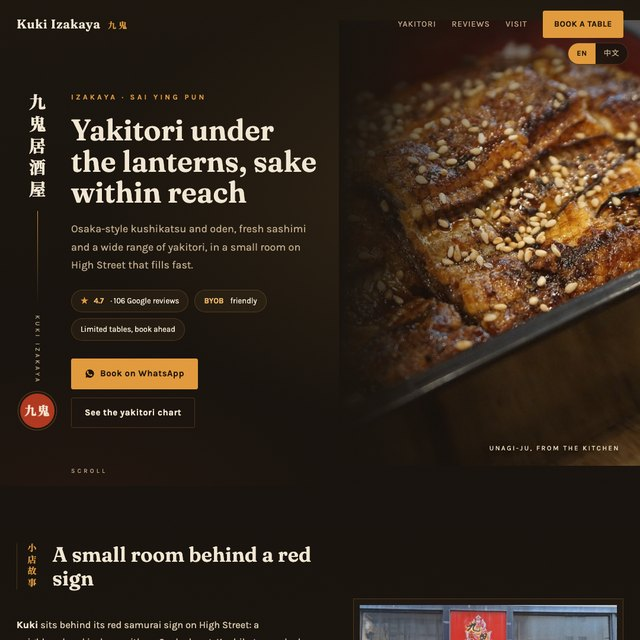
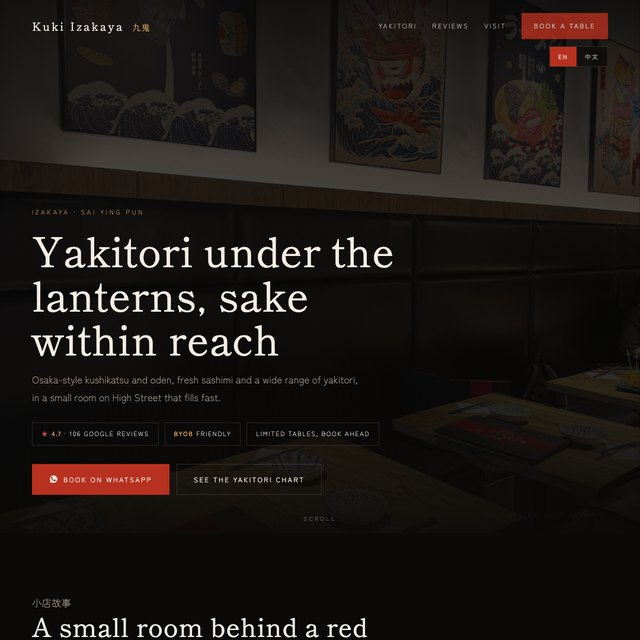
web-design: Kuki tile rebuilt on the awwwards direction

diff --git a/web-design/index.html b/web-design/index.html
@@ -146,7 +146,7 @@ footer a:hover{color:var(--fg)}
 <section class="cityblock" id="damascus"><h2 class="cityhead">DAMASCUS<span>30 websites</span></h2><div class="grid"><a class="card" href="https://wissamsader.github.io/damascus/bakdash/" target="_blank" rel="noopener"><span class="inner"><span class="chrome" aria-hidden="true"><i></i><i></i><i></i></span><img loading="lazy" src="shots/damascus-bakdash.jpg?v=2d0e0249" alt="بوظة بكداش website by StudioMorphik"><span class="meta"><b>بوظة بكداش</b><span style="display:flex;align-items:center;gap:9px"><i>Damascus</i><span class="arr">↗</span></span></span></span></a><a class="card" href="https://wissamsader.github.io/damascus/manhal/" target="_blank" rel="noopener"><span class="inner"><span class="chrome" aria-hidden="true"><i></i><i></i><i></i></span><img loading="lazy" src="shots/damascus-manhal.jpg?v=38a5e05b" alt="مخبز ومكتبة المنهل website by StudioMorphik"><span class="meta"><b>مخبز ومكتبة المنهل</b><span style="display:flex;align-items:center;gap:9px"><i>Damascus</i><span class="arr">↗</span></span></span></span></a><a class="card" href="https://wissamsader.github.io/damascus/nawfara/" target="_blank" rel="noopener"><span class="inner"><span class="chrome" aria-hidden="true"><i></i><i></i><i></i></span><img loading="lazy" src="shots/damascus-nawfara.jpg?v=c793c3ab" alt="مقهى النوفرة website by StudioMorphik"><span class="meta"><b>مقهى النوفرة</b><span style="display:flex;align-items:center;gap:9px"><i>Damascus</i><span class="arr">↗</span></span></span></span></a><a class="card" href="https://wissamsader.github.io/damascus/beit-jabri/" target="_blank" rel="noopener"><span class="inner"><span class="chrome" aria-hidden="true"><i></i><i></i><i></i></span><img loading="lazy" src="shots/damascus-beit-jabri.jpg?v=006b5c8e" alt="بيت جبري website by StudioMorphik"><span class="meta"><b>بيت جبري</b><span style="display:flex;align-items:center;gap:9px"><i>Damascus</i><span class="arr">↗</span></span></span></span></a><a class="card" href="https://wissamsader.github.io/damascus/haretna/" target="_blank" rel="noopener"><span class="inner"><span class="chrome" aria-hidden="true"><i></i><i></i><i></i></span><img loading="lazy" src="shots/damascus-haretna.jpg?v=5cccf1c3" alt="حارتنا website by StudioMorphik"><span class="meta"><b>حارتنا</b><span style="display:flex;align-items:center;gap:9px"><i>Damascus</i><span class="arr">↗</span></span></span></span></a><a class="card" href="https://wissamsader.github.io/damascus/qishla/" target="_blank" rel="noopener"><span class="inner"><span class="chrome" aria-hidden="true"><i></i><i></i><i></i></span><img loading="lazy" src="shots/damascus-qishla.jpg?v=542077eb" alt="قهوة القشلة website by StudioMorphik"><span class="meta"><b>قهوة القشلة</b><span style="display:flex;align-items:center;gap:9px"><i>Damascus</i><span class="arr">↗</span></span></span></span></a><a class="card" href="https://wissamsader.github.io/damascus/monalisa/" target="_blank" rel="noopener"><span class="inner"><span class="chrome" aria-hidden="true"><i></i><i></i><i></i></span><img loading="lazy" src="shots/damascus-monalisa.jpg?v=ecf8d70d" alt="موناليزا website by StudioMorphik"><span class="meta"><b>موناليزا</b><span style="display:flex;align-items:center;gap:9px"><i>Damascus</i><span class="arr">↗</span></span></span></span></a><a class="card" href="https://wissamsader.github.io/damascus/selena/" target="_blank" rel="noopener"><span class="inner"><span class="chrome" aria-hidden="true"><i></i><i></i><i></i></span><img loading="lazy" src="shots/damascus-selena.jpg?v=a09521f4" alt="سيلينا website by StudioMorphik"><span class="meta"><b>سيلينا</b><span style="display:flex;align-items:center;gap:9px"><i>Damascus</i><span class="arr">↗</span></span></span></span></a><a class="card" href="https://wissamsader.github.io/damascus/elburj/" target="_blank" rel="noopener"><span class="inner"><span class="chrome" aria-hidden="true"><i></i><i></i><i></i></span><img loading="lazy" src="shots/damascus-elburj.jpg?v=a6dfdcc9" alt="شاورما البرج website by StudioMorphik"><span class="meta"><b>شاورما البرج</b><span style="display:flex;align-items:center;gap:9px"><i>Damascus</i><span class="arr">↗</span></span></span></span></a><a class="card" href="https://wissamsader.github.io/damascus/wissam-conf/" target="_blank" rel="noopener"><span class="inner"><span class="chrome" aria-hidden="true"><i></i><i></i><i></i></span><img loading="lazy" src="shots/damascus-wissam-conf.jpg?v=a529596c" alt="حلويات الوسام website by StudioMorphik"><span class="meta"><b>حلويات الوسام</b><span style="display:flex;align-items:center;gap:9px"><i>Damascus</i><span class="arr">↗</span></span></span></span></a><a class="card" href="https://wissamsader.github.io/damascus/albeik/" target="_blank" rel="noopener"><span class="inner"><span class="chrome" aria-hidden="true"><i></i><i></i><i></i></span><img loading="lazy" src="shots/damascus-albeik.jpg?v=9bad8d22" alt="حلويات البيك website by StudioMorphik"><span class="meta"><b>حلويات البيك</b><span style="display:flex;align-items:center;gap:9px"><i>Damascus</i><span class="arr">↗</span></span></span></span></a><a class="card" href="https://wissamsader.github.io/damascus/shamiah/" target="_blank" rel="noopener"><span class="inner"><span class="chrome" aria-hidden="true"><i></i><i></i><i></i></span><img loading="lazy" src="shots/damascus-shamiah.jpg?v=70ab2098" alt="حلويات الشامية website by StudioMorphik"><span class="meta"><b>حلويات الشامية</b><span style="display:flex;align-items:center;gap:9px"><i>Damascus</i><span class="arr">↗</span></span></span></span></a><a class="card" href="https://wissamsader.github.io/damascus/omaya-ice/" target="_blank" rel="noopener"><span class="inner"><span class="chrome" aria-hidden="true"><i></i><i></i><i></i></span><img loading="lazy" src="shots/damascus-omaya-ice.jpg?v=d784f657" alt="بوظة أمية website by StudioMorphik"><span class="meta"><b>بوظة أمية</b><span style="display:flex;align-items:center;gap:9px"><i>Damascus</i><span class="arr">↗</span></span></span></span></a><a class="card" href="https://wissamsader.github.io/damascus/almafraq/" target="_blank" rel="noopener"><span class="inner"><span class="chrome" aria-hidden="true"><i></i><i></i><i></i></span><img loading="lazy" src="shots/damascus-almafraq.jpg?v=9579b0df" alt="قهوة عالمفرق website by StudioMorphik"><span class="meta"><b>قهوة عالمفرق</b><span style="display:flex;align-items:center;gap:9px"><i>Damascus</i><span class="arr">↗</span></span></span></span></a><a class="card" href="https://wissamsader.github.io/damascus/old-damascus/" target="_blank" rel="noopener"><span class="inner"><span class="chrome" aria-hidden="true"><i></i><i></i><i></i></span><img loading="lazy" src="shots/damascus-old-damascus.jpg?v=69a4221e" alt="سناك دمشق القديمة website by StudioMorphik"><span class="meta"><b>سناك دمشق القديمة</b><span style="display:flex;align-items:center;gap:9px"><i>Damascus</i><span class="arr">↗</span></span></span></span></a><a class="card" href="https://wissamsader.github.io/damascus/baron-hakob/" target="_blank" rel="noopener"><span class="inner"><span class="chrome" aria-hidden="true"><i></i><i></i><i></i></span><img loading="lazy" src="shots/damascus-baron-hakob.jpg?v=c7a28e37" alt="بارون هاكوب website by StudioMorphik"><span class="meta"><b>بارون هاكوب</b><span style="display:flex;align-items:center;gap:9px"><i>Damascus</i><span class="arr">↗</span></span></span></span></a><a class="card" href="https://wissamsader.github.io/damascus/nubar/" target="_blank" rel="noopener"><span class="inner"><span class="chrome" aria-hidden="true"><i></i><i></i><i></i></span><img loading="lazy" src="shots/damascus-nubar.jpg?v=a4ee046f" alt="نوبار أواديس جولفايان website by StudioMorphik"><span class="meta"><b>نوبار أواديس جولفايان</b><span style="display:flex;align-items:center;gap:9px"><i>Damascus</i><span class="arr">↗</span></span></span></span></a><a class="card" href="https://wissamsader.github.io/damascus/neutron/" target="_blank" rel="noopener"><span class="inner"><span class="chrome" aria-hidden="true"><i></i><i></i><i></i></span><img loading="lazy" src="shots/damascus-neutron.jpg?v=b3ea9ac3" alt="نيوترون website by StudioMorphik"><span class="meta"><b>نيوترون</b><span style="display:flex;align-items:center;gap:9px"><i>Damascus</i><span class="arr">↗</span></span></span></span></a><a class="card" href="https://wissamsader.github.io/damascus/oriental/" target="_blank" rel="noopener"><span class="inner"><span class="chrome" aria-hidden="true"><i></i><i></i><i></i></span><img loading="lazy" src="shots/damascus-oriental.jpg?v=66142b13" alt="مطعم الأورينتال website by StudioMorphik"><span class="meta"><b>مطعم الأورينتال</b><span style="display:flex;align-items:center;gap:9px"><i>Damascus</i><span class="arr">↗</span></span></span></span></a><a class="card" href="https://wissamsader.github.io/damascus/amraya/" target="_blank" rel="noopener"><span class="inner"><span class="chrome" aria-hidden="true"><i></i><i></i><i></i></span><img loading="lazy" src="shots/damascus-amraya.jpg?v=cf7142a5" alt="كافيه أمرايا website by StudioMorphik"><span class="meta"><b>كافيه أمرايا</b><span style="display:flex;align-items:center;gap:9px"><i>Damascus</i><span class="arr">↗</span></span></span></span></a><a class="card" href="https://wissamsader.github.io/damascus/warraq-alzaman/" target="_blank" rel="noopener"><span class="inner"><span class="chrome" aria-hidden="true"><i></i><i></i><i></i></span><img loading="lazy" src="shots/damascus-warraq-alzaman.jpg?v=b649af87" alt="وراق الزمن website by StudioMorphik"><span class="meta"><b>وراق الزمن</b><span style="display:flex;align-items:center;gap:9px"><i>Damascus</i><span class="arr">↗</span></span></span></span></a><a class="card" href="https://wissamsader.github.io/damascus/soufaniyeh/" target="_blank" rel="noopener"><span class="inner"><span class="chrome" aria-hidden="true"><i></i><i></i><i></i></span><img loading="lazy" src="shots/damascus-soufaniyeh.jpg?v=d4ebc67d" alt="معجنات الصوفانية website by StudioMorphik"><span class="meta"><b>معجنات الصوفانية</b><span style="display:flex;align-items:center;gap:9px"><i>Damascus</i><span class="arr">↗</span></span></span></span></a><a class="card" href="https://wissamsader.github.io/damascus/salon-alshami/" target="_blank" rel="noopener"><span class="inner"><span class="chrome" aria-hidden="true"><i></i><i></i><i></i></span><img loading="lazy" src="shots/damascus-salon-alshami.jpg?v=bcaa1648" alt="صالون الشامي website by StudioMorphik"><span class="meta"><b>صالون الشامي</b><span style="display:flex;align-items:center;gap:9px"><i>Damascus</i><span class="arr">↗</span></span></span></span></a><a class="card" href="https://wissamsader.github.io/damascus/salaza-dany/" target="_blank" rel="noopener"><span class="inner"><span class="chrome" aria-hidden="true"><i></i><i></i><i></i></span><img loading="lazy" src="shots/damascus-salaza-dany.jpg?v=f39874ec" alt="صالون سالازا - داني عنتر website by StudioMorphik"><span class="meta"><b>صالون سالازا - داني عنتر</b><span style="display:flex;align-items:center;gap:9px"><i>Damascus</i><span class="arr">↗</span></span></span></span></a><a class="card" href="https://wissamsader.github.io/damascus/qissa-dimashqiya/" target="_blank" rel="noopener"><span class="inner"><span class="chrome" aria-hidden="true"><i></i><i></i><i></i></span><img loading="lazy" src="shots/damascus-qissa-dimashqiya.jpg?v=2ffeb2d4" alt="صالون القصة الدمشقية website by StudioMorphik"><span class="meta"><b>صالون القصة الدمشقية</b><span style="display:flex;align-items:center;gap:9px"><i>Damascus</i><span class="arr">↗</span></span></span></span></a><a class="card" href="https://wissamsader.github.io/damascus/hasan-nizam/" target="_blank" rel="noopener"><span class="inner"><span class="chrome" aria-hidden="true"><i></i><i></i><i></i></span><img loading="lazy" src="shots/damascus-hasan-nizam.jpg?v=2530689c" alt="حسن نظام للحلاقة website by StudioMorphik"><span class="meta"><b>حسن نظام للحلاقة</b><span style="display:flex;align-items:center;gap:9px"><i>Damascus</i><span class="arr">↗</span></span></span></span></a><a class="card" href="https://wissamsader.github.io/damascus/famous-saloun/" target="_blank" rel="noopener"><span class="inner"><span class="chrome" aria-hidden="true"><i></i><i></i><i></i></span><img loading="lazy" src="shots/damascus-famous-saloun.jpg?v=bb274908" alt="فيموس صالون website by StudioMorphik"><span class="meta"><b>فيموس صالون</b><span style="display:flex;align-items:center;gap:9px"><i>Damascus</i><span class="arr">↗</span></span></span></span></a><a class="card" href="https://wissamsader.github.io/damascus/joseph-saad/" target="_blank" rel="noopener"><span class="inner"><span class="chrome" aria-hidden="true"><i></i><i></i><i></i></span><img loading="lazy" src="shots/damascus-joseph-saad.jpg?v=6ebe57a7" alt="صالون جوزيف سعد website by StudioMorphik"><span class="meta"><b>صالون جوزيف سعد</b><span style="display:flex;align-items:center;gap:9px"><i>Damascus</i><span class="arr">↗</span></span></span></span></a><a class="card" href="https://wissamsader.github.io/damascus/george-mardini/" target="_blank" rel="noopener"><span class="inner"><span class="chrome" aria-hidden="true"><i></i><i></i><i></i></span><img loading="lazy" src="shots/damascus-george-mardini.jpg?v=d0512581" alt="صالون جورج مارديني website by StudioMorphik"><span class="meta"><b>صالون جورج مارديني</b><span style="display:flex;align-items:center;gap:9px"><i>Damascus</i><span class="arr">↗</span></span></span></span></a><a class="card" href="https://wissamsader.github.io/damascus/othman/" target="_blank" rel="noopener"><span class="inner"><span class="chrome" aria-hidden="true"><i></i><i></i><i></i></span><img loading="lazy" src="shots/damascus-othman.jpg?v=ce987ca6" alt="عثمان باربرز website by StudioMorphik"><span class="meta"><b>عثمان باربرز</b><span style="display:flex;align-items:center;gap:9px"><i>Damascus</i><span class="arr">↗</span></span></span></span></a></div></section>
 <section class="cityblock" id="berlin"><h2 class="cityhead">BERLIN<span>30 websites</span></h2><div class="grid"><a class="card" href="https://wissamsader.github.io/berlin/azzam-restaurant/" target="_blank" rel="noopener"><span class="inner"><span class="chrome" aria-hidden="true"><i></i><i></i><i></i></span><img loading="lazy" src="shots/berlin-azzam-restaurant.jpg?v=28a3b15f" alt="Azzam Restaurant website by StudioMorphik"><span class="meta"><b>Azzam Restaurant</b><span style="display:flex;align-items:center;gap:9px"><i>Berlin</i><span class="arr">↗</span></span></span></span></a><a class="card" href="https://wissamsader.github.io/berlin/sanaa-al-yemen/" target="_blank" rel="noopener"><span class="inner"><span class="chrome" aria-hidden="true"><i></i><i></i><i></i></span><img loading="lazy" src="shots/berlin-sanaa-al-yemen.jpg?v=75495e37" alt="Sana&#x27;a Al Yemen website by StudioMorphik"><span class="meta"><b>Sana&#x27;a Al Yemen</b><span style="display:flex;align-items:center;gap:9px"><i>Berlin</i><span class="arr">↗</span></span></span></span></a><a class="card" href="https://wissamsader.github.io/berlin/al-hanan-falafel/" target="_blank" rel="noopener"><span class="inner"><span class="chrome" aria-hidden="true"><i></i><i></i><i></i></span><img loading="lazy" src="shots/berlin-al-hanan-falafel.jpg?v=07706420" alt="Al Hanan website by StudioMorphik"><span class="meta"><b>Al Hanan</b><span style="display:flex;align-items:center;gap:9px"><i>Berlin</i><span class="arr">↗</span></span></span></span></a><a class="card" href="https://wissamsader.github.io/berlin/shawarma-albaik/" target="_blank" rel="noopener"><span class="inner"><span class="chrome" aria-hidden="true"><i></i><i></i><i></i></span><img loading="lazy" src="shots/berlin-shawarma-albaik.jpg?v=b66bc686" alt="Shawarma Albaik website by StudioMorphik"><span class="meta"><b>Shawarma Albaik</b><span style="display:flex;align-items:center;gap:9px"><i>Berlin</i><span class="arr">↗</span></span></span></span></a><a class="card" href="https://wissamsader.github.io/berlin/falfool/" target="_blank" rel="noopener"><span class="inner"><span class="chrome" aria-hidden="true"><i></i><i></i><i></i></span><img loading="lazy" src="shots/berlin-falfool.jpg?v=4eb229bc" alt="Falfool website by StudioMorphik"><span class="meta"><b>Falfool</b><span style="display:flex;align-items:center;gap:9px"><i>Berlin</i><span class="arr">↗</span></span></span></span></a><a class="card" href="https://wissamsader.github.io/berlin/falafel-jakoub/" target="_blank" rel="noopener"><span class="inner"><span class="chrome" aria-hidden="true"><i></i><i></i><i></i></span><img loading="lazy" src="shots/berlin-falafel-jakoub.jpg?v=27330b30" alt="Falafel Jakoub website by StudioMorphik"><span class="meta"><b>Falafel Jakoub</b><span style="display:flex;align-items:center;gap:9px"><i>Berlin</i><span class="arr">↗</span></span></span></span></a><a class="card" href="https://wissamsader.github.io/berlin/al-karam-grill/" target="_blank" rel="noopener"><span class="inner"><span class="chrome" aria-hidden="true"><i></i><i></i><i></i></span><img loading="lazy" src="shots/berlin-al-karam-grill.jpg?v=538d3556" alt="Al-Karam Grill website by StudioMorphik"><span class="meta"><b>Al-Karam Grill</b><span style="display:flex;align-items:center;gap:9px"><i>Berlin</i><span class="arr">↗</span></span></span></span></a><a class="card" href="https://wissamsader.github.io/berlin/el-daia/" target="_blank" rel="noopener"><span class="inner"><span class="chrome" aria-hidden="true"><i></i><i></i><i></i></span><img loading="lazy" src="shots/berlin-el-daia.jpg?v=80fd0776" alt="El Daia website by StudioMorphik"><span class="meta"><b>El Daia</b><span style="display:flex;align-items:center;gap:9px"><i>Berlin</i><span class="arr">↗</span></span></span></span></a><a class="card" href="https://wissamsader.github.io/berlin/abu-haija-fleischerei/" target="_blank" rel="noopener"><span class="inner"><span class="chrome" aria-hidden="true"><i></i><i></i><i></i></span><img loading="lazy" src="shots/berlin-abu-haija-fleischerei.jpg?v=7fab6d69" alt="Fleischerei Yousef Abu Haija website by StudioMorphik"><span class="meta"><b>Fleischerei Yousef Abu Haija</b><span style="display:flex;align-items:center;gap:9px"><i>Berlin</i><span class="arr">↗</span></span></span></span></a><a class="card" href="https://wissamsader.github.io/berlin/ali-lobany-fleischerei/" target="_blank" rel="noopener"><span class="inner"><span class="chrome" aria-hidden="true"><i></i><i></i><i></i></span><img loading="lazy" src="shots/berlin-ali-lobany-fleischerei.jpg?v=458a65a5" alt="Fleischerei Ali Lobany website by StudioMorphik"><span class="meta"><b>Fleischerei Ali Lobany</b><span style="display:flex;align-items:center;gap:9px"><i>Berlin</i><span class="arr">↗</span></span></span></span></a><a class="card" href="https://wissamsader.github.io/berlin/al-amana-fleischerei/" target="_blank" rel="noopener"><span class="inner"><span class="chrome" aria-hidden="true"><i></i><i></i><i></i></span><img loading="lazy" src="shots/berlin-al-amana-fleischerei.jpg?v=26abd144" alt="Al Amana Fleischerei website by StudioMorphik"><span class="meta"><b>Al Amana Fleischerei</b><span style="display:flex;align-items:center;gap:9px"><i>Berlin</i><span class="arr">↗</span></span></span></span></a><a class="card" href="https://wissamsader.github.io/berlin/malek-al-konafeh/" target="_blank" rel="noopener"><span class="inner"><span class="chrome" aria-hidden="true"><i></i><i></i><i></i></span><img loading="lazy" src="shots/berlin-malek-al-konafeh.jpg?v=120d166a" alt="Malek Al Konafeh website by StudioMorphik"><span class="meta"><b>Malek Al Konafeh</b><span style="display:flex;align-items:center;gap:9px"><i>Berlin</i><span class="arr">↗</span></span></span></span></a><a class="card" href="https://wissamsader.github.io/berlin/habibi-suessigkeiten/" target="_blank" rel="noopener"><span class="inner"><span class="chrome" aria-hidden="true"><i></i><i></i><i></i></span><img loading="lazy" src="shots/berlin-habibi-suessigkeiten.jpg?v=34f58d8d" alt="Habibi Süßigkeiten website by StudioMorphik"><span class="meta"><b>Habibi Süßigkeiten</b><span style="display:flex;align-items:center;gap:9px"><i>Berlin</i><span class="arr">↗</span></span></span></span></a><a class="card" href="https://wissamsader.github.io/berlin/jacks-barber/" target="_blank" rel="noopener"><span class="inner"><span class="chrome" aria-hidden="true"><i></i><i></i><i></i></span><img loading="lazy" src="shots/berlin-jacks-barber.jpg?v=34f3c4ea" alt="Jack&#x27;s Barber Shop website by StudioMorphik"><span class="meta"><b>Jack&#x27;s Barber Shop</b><span style="display:flex;align-items:center;gap:9px"><i>Berlin</i><span class="arr">↗</span></span></span></span></a><a class="card" href="https://wissamsader.github.io/berlin/taktak-barbershop/" target="_blank" rel="noopener"><span class="inner"><span class="chrome" aria-hidden="true"><i></i><i></i><i></i></span><img loading="lazy" src="shots/berlin-taktak-barbershop.jpg?v=1ecef50c" alt="TakTak Barbershop website by StudioMorphik"><span class="meta"><b>TakTak Barbershop</b><span style="display:flex;align-items:center;gap:9px"><i>Berlin</i><span class="arr">↗</span></span></span></span></a><a class="card" href="https://wissamsader.github.io/berlin/azzam-salon/" target="_blank" rel="noopener"><span class="inner"><span class="chrome" aria-hidden="true"><i></i><i></i><i></i></span><img loading="lazy" src="shots/berlin-azzam-salon.jpg?v=5d906cdd" alt="Azzam Salon website by StudioMorphik"><span class="meta"><b>Azzam Salon</b><span style="display:flex;align-items:center;gap:9px"><i>Berlin</i><span class="arr">↗</span></span></span></span></a><a class="card" href="https://wissamsader.github.io/berlin/salon-rotana/" target="_blank" rel="noopener"><span class="inner"><span class="chrome" aria-hidden="true"><i></i><i></i><i></i></span><img loading="lazy" src="shots/berlin-salon-rotana.jpg?v=d6bcc1bc" alt="Salon Rotana website by StudioMorphik"><span class="meta"><b>Salon Rotana</b><span style="display:flex;align-items:center;gap:9px"><i>Berlin</i><span class="arr">↗</span></span></span></span></a><a class="card" href="https://wissamsader.github.io/berlin/juwelier-al-aman/" target="_blank" rel="noopener"><span class="inner"><span class="chrome" aria-hidden="true"><i></i><i></i><i></i></span><img loading="lazy" src="shots/berlin-juwelier-al-aman.jpg?v=d8994daf" alt="Juwelier Al Aman website by StudioMorphik"><span class="meta"><b>Juwelier Al Aman</b><span style="display:flex;align-items:center;gap:9px"><i>Berlin</i><span class="arr">↗</span></span></span></span></a><a class="card" href="https://wissamsader.github.io/berlin/juwelier-al-afrah/" target="_blank" rel="noopener"><span class="inner"><span class="chrome" aria-hidden="true"><i></i><i></i><i></i></span><img loading="lazy" src="shots/berlin-juwelier-al-afrah.jpg?v=5fd5a147" alt="Juwelier Al Afrah website by StudioMorphik"><span class="meta"><b>Juwelier Al Afrah</b><span style="display:flex;align-items:center;gap:9px"><i>Berlin</i><span class="arr">↗</span></span></span></span></a><a class="card" href="https://wissamsader.github.io/berlin/juwelier-al-hanan/" target="_blank" rel="noopener"><span class="inner"><span class="chrome" aria-hidden="true"><i></i><i></i><i></i></span><img loading="lazy" src="shots/berlin-juwelier-al-hanan.jpg?v=c52c3b34" alt="Juwelier Al-Hanan website by StudioMorphik"><span class="meta"><b>Juwelier Al-Hanan</b><span style="display:flex;align-items:center;gap:9px"><i>Berlin</i><span class="arr">↗</span></span></span></span></a><a class="card" href="https://wissamsader.github.io/berlin/juwelier-al-hanan-1/" target="_blank" rel="noopener"><span class="inner"><span class="chrome" aria-hidden="true"><i></i><i></i><i></i></span><img loading="lazy" src="shots/berlin-juwelier-al-hanan-1.jpg?v=8f909c1e" alt="Juwelier Al Hanan 1 website by StudioMorphik"><span class="meta"><b>Juwelier Al Hanan 1</b><span style="display:flex;align-items:center;gap:9px"><i>Berlin</i><span class="arr">↗</span></span></span></span></a><a class="card" href="https://wissamsader.github.io/berlin/juwelier-al-hadi/" target="_blank" rel="noopener"><span class="inner"><span class="chrome" aria-hidden="true"><i></i><i></i><i></i></span><img loading="lazy" src="shots/berlin-juwelier-al-hadi.jpg?v=6896e855" alt="Juwelier Al-Hadi website by StudioMorphik"><span class="meta"><b>Juwelier Al-Hadi</b><span style="display:flex;align-items:center;gap:9px"><i>Berlin</i><span class="arr">↗</span></span></span></span></a><a class="card" href="https://wissamsader.github.io/berlin/queen-brautmoden/" target="_blank" rel="noopener"><span class="inner"><span class="chrome" aria-hidden="true"><i></i><i></i><i></i></span><img loading="lazy" src="shots/berlin-queen-brautmoden.jpg?v=a0385b91" alt="Queen Braut- &amp; Festmoden website by StudioMorphik"><span class="meta"><b>Queen Braut- &amp; Festmoden</b><span style="display:flex;align-items:center;gap:9px"><i>Berlin</i><span class="arr">↗</span></span></span></span></a><a class="card" href="https://wissamsader.github.io/berlin/anaqa-almuhajaba/" target="_blank" rel="noopener"><span class="inner"><span class="chrome" aria-hidden="true"><i></i><i></i><i></i></span><img loading="lazy" src="shots/berlin-anaqa-almuhajaba.jpg?v=4bd74f17" alt="Anaqat Al-Muhajaba website by StudioMorphik"><span class="meta"><b>Anaqat Al-Muhajaba</b><span style="display:flex;align-items:center;gap:9px"><i>Berlin</i><span class="arr">↗</span></span></span></span></a><a class="card" href="https://wissamsader.github.io/berlin/al-madina-markt/" target="_blank" rel="noopener"><span class="inner"><span class="chrome" aria-hidden="true"><i></i><i></i><i></i></span><img loading="lazy" src="shots/berlin-al-madina-markt.jpg?v=8adc8dae" alt="Al-Madina Supermarkt website by StudioMorphik"><span class="meta"><b>Al-Madina Supermarkt</b><span style="display:flex;align-items:center;gap:9px"><i>Berlin</i><span class="arr">↗</span></span></span></span></a><a class="card" href="https://wissamsader.github.io/berlin/alscham-markt/" target="_blank" rel="noopener"><span class="inner"><span class="chrome" aria-hidden="true"><i></i><i></i><i></i></span><img loading="lazy" src="shots/berlin-alscham-markt.jpg?v=0aab8609" alt="Supermarkt Alscham website by StudioMorphik"><span class="meta"><b>Supermarkt Alscham</b><span style="display:flex;align-items:center;gap:9px"><i>Berlin</i><span class="arr">↗</span></span></span></span></a><a class="card" href="https://wissamsader.github.io/berlin/heimatreisen/" target="_blank" rel="noopener"><span class="inner"><span class="chrome" aria-hidden="true"><i></i><i></i><i></i></span><img loading="lazy" src="shots/berlin-heimatreisen.jpg?v=e17a7aab" alt="Heimatreisen website by StudioMorphik"><span class="meta"><b>Heimatreisen</b><span style="display:flex;align-items:center;gap:9px"><i>Berlin</i><span class="arr">↗</span></span></span></span></a><a class="card" href="https://wissamsader.github.io/berlin/amira-shop/" target="_blank" rel="noopener"><span class="inner"><span class="chrome" aria-hidden="true"><i></i><i></i><i></i></span><img loading="lazy" src="shots/berlin-amira-shop.jpg?v=86d2d726" alt="Amira Galerie website by StudioMorphik"><span class="meta"><b>Amira Galerie</b><span style="display:flex;align-items:center;gap:9px"><i>Berlin</i><span class="arr">↗</span></span></span></span></a><a class="card" href="https://wissamsader.github.io/berlin/handyshop-sami/" target="_blank" rel="noopener"><span class="inner"><span class="chrome" aria-hidden="true"><i></i><i></i><i></i></span><img loading="lazy" src="shots/berlin-handyshop-sami.jpg?v=6acacaa8" alt="Handyshop Sami website by StudioMorphik"><span class="meta"><b>Handyshop Sami</b><span style="display:flex;align-items:center;gap:9px"><i>Berlin</i><span class="arr">↗</span></span></span></span></a><a class="card" href="https://wissamsader.github.io/berlin/ishtar-shisha/" target="_blank" rel="noopener"><span class="inner"><span class="chrome" aria-hidden="true"><i></i><i></i><i></i></span><img loading="lazy" src="shots/berlin-ishtar-shisha.jpg?v=341c8c97" alt="Ishtar Shisha-Shop website by StudioMorphik"><span class="meta"><b>Ishtar Shisha-Shop</b><span style="display:flex;align-items:center;gap:9px"><i>Berlin</i><span class="arr">↗</span></span></span></span></a></div></section>
 <section class="cityblock" id="athens"><h2 class="cityhead">ATHENS<span>20 websites</span></h2><div class="grid"><a class="card" href="https://wissamsader.github.io/athens/168-bar/" target="_blank" rel="noopener"><span class="inner"><span class="chrome" aria-hidden="true"><i></i><i></i><i></i></span><img loading="lazy" src="shots/athens-168-bar.jpg?v=0137d68d" alt="168 Bar website by StudioMorphik"><span class="meta"><b>168 Bar</b><span style="display:flex;align-items:center;gap:9px"><i>Athens</i><span class="arr">↗</span></span></span></span></a><a class="card" href="https://wissamsader.github.io/athens/ali-merakli/" target="_blank" rel="noopener"><span class="inner"><span class="chrome" aria-hidden="true"><i></i><i></i><i></i></span><img loading="lazy" src="shots/athens-ali-merakli.jpg?v=41ff4cb6" alt="ΑΛΙ ΜΕΡΑΚΛΗ website by StudioMorphik"><span class="meta"><b>ΑΛΙ ΜΕΡΑΚΛΗ</b><span style="display:flex;align-items:center;gap:9px"><i>Athens</i><span class="arr">↗</span></span></span></span></a><a class="card" href="https://wissamsader.github.io/athens/falafel-al-sharq/" target="_blank" rel="noopener"><span class="inner"><span class="chrome" aria-hidden="true"><i></i><i></i><i></i></span><img loading="lazy" src="shots/athens-falafel-al-sharq.jpg?v=0857984b" alt="Falafel Al Sharq website by StudioMorphik"><span class="meta"><b>Falafel Al Sharq</b><span style="display:flex;align-items:center;gap:9px"><i>Athens</i><span class="arr">↗</span></span></span></span></a><a class="card" href="https://wissamsader.github.io/athens/kokkinos-krinos/" target="_blank" rel="noopener"><span class="inner"><span class="chrome" aria-hidden="true"><i></i><i></i><i></i></span><img loading="lazy" src="shots/athens-kokkinos-krinos.jpg?v=0ce4e964" alt="Κόκκινος Κρίνος website by StudioMorphik"><span class="meta"><b>Κόκκινος Κρίνος</b><span style="display:flex;align-items:center;gap:9px"><i>Athens</i><span class="arr">↗</span></span></span></span></a><a class="card" href="https://wissamsader.github.io/athens/green-kebab/" target="_blank" rel="noopener"><span class="inner"><span class="chrome" aria-hidden="true"><i></i><i></i><i></i></span><img loading="lazy" src="shots/athens-green-kebab.jpg?v=d0a8ab6a" alt="Green Kebab website by StudioMorphik"><span class="meta"><b>Green Kebab</b><span style="display:flex;align-items:center;gap:9px"><i>Athens</i><span class="arr">↗</span></span></span></span></a><a class="card" href="https://wissamsader.github.io/athens/kypselaki/" target="_blank" rel="noopener"><span class="inner"><span class="chrome" aria-hidden="true"><i></i><i></i><i></i></span><img loading="lazy" src="shots/athens-kypselaki.jpg?v=b3cf40ee" alt="Kypselaki website by StudioMorphik"><span class="meta"><b>Kypselaki</b><span style="display:flex;align-items:center;gap:9px"><i>Athens</i><span class="arr">↗</span></span></span></span></a><a class="card" href="https://wissamsader.github.io/athens/zanoubia/" target="_blank" rel="noopener"><span class="inner"><span class="chrome" aria-hidden="true"><i></i><i></i><i></i></span><img loading="lazy" src="shots/athens-zanoubia.jpg?v=7dabdd8a" alt="Ζανούμπια website by StudioMorphik"><span class="meta"><b>Ζανούμπια</b><span style="display:flex;align-items:center;gap:9px"><i>Athens</i><span class="arr">↗</span></span></span></span></a><a class="card" href="https://wissamsader.github.io/athens/gefseis-damaskou/" target="_blank" rel="noopener"><span class="inner"><span class="chrome" aria-hidden="true"><i></i><i></i><i></i></span><img loading="lazy" src="shots/athens-gefseis-damaskou.jpg?v=635c93a1" alt="Γεύσεις της Δαμασκού website by StudioMorphik"><span class="meta"><b>Γεύσεις της Δαμασκού</b><span style="display:flex;align-items:center;gap:9px"><i>Athens</i><span class="arr">↗</span></span></span></span></a><a class="card" href="https://wissamsader.github.io/athens/anteti/" target="_blank" rel="noopener"><span class="inner"><span class="chrome" aria-hidden="true"><i></i><i></i><i></i></span><img loading="lazy" src="shots/athens-anteti.jpg?v=a814878e" alt="ΑΝΤΕΤΙ website by StudioMorphik"><span class="meta"><b>ΑΝΤΕΤΙ</b><span style="display:flex;align-items:center;gap:9px"><i>Athens</i><span class="arr">↗</span></span></span></span></a><a class="card" href="https://wissamsader.github.io/athens/mikio/" target="_blank" rel="noopener"><span class="inner"><span class="chrome" aria-hidden="true"><i></i><i></i><i></i></span><img loading="lazy" src="shots/athens-mikio.jpg?v=4c70e762" alt="Το Μικιό website by StudioMorphik"><span class="meta"><b>Το Μικιό</b><span style="display:flex;align-items:center;gap:9px"><i>Athens</i><span class="arr">↗</span></span></span></span></a><a class="card" href="https://wissamsader.github.io/athens/kulinaristan/" target="_blank" rel="noopener"><span class="inner"><span class="chrome" aria-hidden="true"><i></i><i></i><i></i></span><img loading="lazy" src="shots/athens-kulinaristan.jpg?v=175178aa" alt="KULINARISTAN website by StudioMorphik"><span class="meta"><b>KULINARISTAN</b><span style="display:flex;align-items:center;gap:9px"><i>Athens</i><span class="arr">↗</span></span></span></span></a><a class="card" href="https://wissamsader.github.io/athens/kappari/" target="_blank" rel="noopener"><span class="inner"><span class="chrome" aria-hidden="true"><i></i><i></i><i></i></span><img loading="lazy" src="shots/athens-kappari.jpg?v=19ef660d" alt="Κάππαρη website by StudioMorphik"><span class="meta"><b>Κάππαρη</b><span style="display:flex;align-items:center;gap:9px"><i>Athens</i><span class="arr">↗</span></span></span></span></a><a class="card" href="https://wissamsader.github.io/athens/rantevou/" target="_blank" rel="noopener"><span class="inner"><span class="chrome" aria-hidden="true"><i></i><i></i><i></i></span><img loading="lazy" src="shots/athens-rantevou.jpg?v=ca7a8bda" alt="Ραντεβού website by StudioMorphik"><span class="meta"><b>Ραντεβού</b><span style="display:flex;align-items:center;gap:9px"><i>Athens</i><span class="arr">↗</span></span></span></span></a><a class="card" href="https://wissamsader.github.io/athens/thang-long/" target="_blank" rel="noopener"><span class="inner"><span class="chrome" aria-hidden="true"><i></i><i></i><i></i></span><img loading="lazy" src="shots/athens-thang-long.jpg?v=aceb610d" alt="Thang Long website by StudioMorphik"><span class="meta"><b>Thang Long</b><span style="display:flex;align-items:center;gap:9px"><i>Athens</i><span class="arr">↗</span></span></span></span></a><a class="card" href="https://wissamsader.github.io/athens/lushnu/" target="_blank" rel="noopener"><span class="inner"><span class="chrome" aria-hidden="true"><i></i><i></i><i></i></span><img loading="lazy" src="shots/athens-lushnu.jpg?v=873f9860" alt="LUSHNU website by StudioMorphik"><span class="meta"><b>LUSHNU</b><span style="display:flex;align-items:center;gap:9px"><i>Athens</i><span class="arr">↗</span></span></span></span></a><a class="card" href="https://wissamsader.github.io/athens/marili/" target="_blank" rel="noopener"><span class="inner"><span class="chrome" aria-hidden="true"><i></i><i></i><i></i></span><img loading="lazy" src="shots/athens-marili.jpg?v=fb27ef59" alt="MARILI website by StudioMorphik"><span class="meta"><b>MARILI</b><span style="display:flex;align-items:center;gap:9px"><i>Athens</i><span class="arr">↗</span></span></span></span></a><a class="card" href="https://wissamsader.github.io/athens/sara/" target="_blank" rel="noopener"><span class="inner"><span class="chrome" aria-hidden="true"><i></i><i></i><i></i></span><img loading="lazy" src="shots/athens-sara.jpg?v=58e798eb" alt="ΣΑΡΑ website by StudioMorphik"><span class="meta"><b>ΣΑΡΑ</b><span style="display:flex;align-items:center;gap:9px"><i>Athens</i><span class="arr">↗</span></span></span></span></a><a class="card" href="https://wissamsader.github.io/athens/mykinon-gonia/" target="_blank" rel="noopener"><span class="inner"><span class="chrome" aria-hidden="true"><i></i><i></i><i></i></span><img loading="lazy" src="shots/athens-mykinon-gonia.jpg?v=18d7163c" alt="Μυκηνών Γωνία website by StudioMorphik"><span class="meta"><b>Μυκηνών Γωνία</b><span style="display:flex;align-items:center;gap:9px"><i>Athens</i><span class="arr">↗</span></span></span></span></a><a class="card" href="https://wissamsader.github.io/athens/valitsa/" target="_blank" rel="noopener"><span class="inner"><span class="chrome" aria-hidden="true"><i></i><i></i><i></i></span><img loading="lazy" src="shots/athens-valitsa.jpg?v=7b318912" alt="Βαλίτσα website by StudioMorphik"><span class="meta"><b>Βαλίτσα</b><span style="display:flex;align-items:center;gap:9px"><i>Athens</i><span class="arr">↗</span></span></span></span></a><a class="card" href="https://wissamsader.github.io/athens/typografos/" target="_blank" rel="noopener"><span class="inner"><span class="chrome" aria-hidden="true"><i></i><i></i><i></i></span><img loading="lazy" src="shots/athens-typografos.jpg?v=3d7afb32" alt="Ο Τυπογράφος website by StudioMorphik"><span class="meta"><b>Ο Τυπογράφος</b><span style="display:flex;align-items:center;gap:9px"><i>Athens</i><span class="arr">↗</span></span></span></span></a></div></section>
-<section class="cityblock" id="hong-kong"><h2 class="cityhead">HONG KONG<span>5 websites</span></h2><div class="grid"><a class="card" href="https://wissamsader.github.io/hongkong/nojo-ramen/" target="_blank" rel="noopener"><span class="inner"><span class="chrome" aria-hidden="true"><i></i><i></i><i></i></span><img loading="lazy" src="shots/hongkong-nojo-ramen.jpg?v=016c3ffd" alt="NOJO Ramen x Izakaya website by StudioMorphik"><span class="meta"><b>NOJO Ramen x Izakaya</b><span style="display:flex;align-items:center;gap:9px"><i>Hong Kong</i><span class="arr">↗</span></span></span></span></a><a class="card" href="https://wissamsader.github.io/hongkong/a-lux/" target="_blank" rel="noopener"><span class="inner"><span class="chrome" aria-hidden="true"><i></i><i></i><i></i></span><img loading="lazy" src="shots/hongkong-a-lux.jpg?v=78594e9a" alt="A Lux website by StudioMorphik"><span class="meta"><b>A Lux</b><span style="display:flex;align-items:center;gap:9px"><i>Hong Kong</i><span class="arr">↗</span></span></span></span></a><a class="card" href="https://wissamsader.github.io/hongkong/corks-wine-bar/" target="_blank" rel="noopener"><span class="inner"><span class="chrome" aria-hidden="true"><i></i><i></i><i></i></span><img loading="lazy" src="shots/hongkong-corks-wine-bar.jpg?v=e78b4655" alt="CORKS Wine &amp; Bar website by StudioMorphik"><span class="meta"><b>CORKS Wine &amp; Bar</b><span style="display:flex;align-items:center;gap:9px"><i>Hong Kong</i><span class="arr">↗</span></span></span></span></a><a class="card" href="https://wissamsader.github.io/hongkong/kuki-izakaya/" target="_blank" rel="noopener"><span class="inner"><span class="chrome" aria-hidden="true"><i></i><i></i><i></i></span><img loading="lazy" src="shots/hongkong-kuki-izakaya.jpg?v=db144d58" alt="Kuki Izakaya website by StudioMorphik"><span class="meta"><b>Kuki Izakaya</b><span style="display:flex;align-items:center;gap:9px"><i>Hong Kong</i><span class="arr">↗</span></span></span></span></a><a class="card" href="https://wissamsader.github.io/hongkong/hohon-eatery/" target="_blank" rel="noopener"><span class="inner"><span class="chrome" aria-hidden="true"><i></i><i></i><i></i></span><img loading="lazy" src="shots/hongkong-hohon-eatery.jpg?v=d0fa60ba" alt="HoHon Eatery website by StudioMorphik"><span class="meta"><b>HoHon Eatery</b><span style="display:flex;align-items:center;gap:9px"><i>Hong Kong</i><span class="arr">↗</span></span></span></span></a></div></section>
+<section class="cityblock" id="hong-kong"><h2 class="cityhead">HONG KONG<span>5 websites</span></h2><div class="grid"><a class="card" href="https://wissamsader.github.io/hongkong/nojo-ramen/" target="_blank" rel="noopener"><span class="inner"><span class="chrome" aria-hidden="true"><i></i><i></i><i></i></span><img loading="lazy" src="shots/hongkong-nojo-ramen.jpg?v=016c3ffd" alt="NOJO Ramen x Izakaya website by StudioMorphik"><span class="meta"><b>NOJO Ramen x Izakaya</b><span style="display:flex;align-items:center;gap:9px"><i>Hong Kong</i><span class="arr">↗</span></span></span></span></a><a class="card" href="https://wissamsader.github.io/hongkong/a-lux/" target="_blank" rel="noopener"><span class="inner"><span class="chrome" aria-hidden="true"><i></i><i></i><i></i></span><img loading="lazy" src="shots/hongkong-a-lux.jpg?v=78594e9a" alt="A Lux website by StudioMorphik"><span class="meta"><b>A Lux</b><span style="display:flex;align-items:center;gap:9px"><i>Hong Kong</i><span class="arr">↗</span></span></span></span></a><a class="card" href="https://wissamsader.github.io/hongkong/corks-wine-bar/" target="_blank" rel="noopener"><span class="inner"><span class="chrome" aria-hidden="true"><i></i><i></i><i></i></span><img loading="lazy" src="shots/hongkong-corks-wine-bar.jpg?v=e78b4655" alt="CORKS Wine &amp; Bar website by StudioMorphik"><span class="meta"><b>CORKS Wine &amp; Bar</b><span style="display:flex;align-items:center;gap:9px"><i>Hong Kong</i><span class="arr">↗</span></span></span></span></a><a class="card" href="https://wissamsader.github.io/hongkong/kuki-izakaya/" target="_blank" rel="noopener"><span class="inner"><span class="chrome" aria-hidden="true"><i></i><i></i><i></i></span><img loading="lazy" src="shots/hongkong-kuki-izakaya.jpg?v=238406d3" alt="Kuki Izakaya website by StudioMorphik"><span class="meta"><b>Kuki Izakaya</b><span style="display:flex;align-items:center;gap:9px"><i>Hong Kong</i><span class="arr">↗</span></span></span></span></a><a class="card" href="https://wissamsader.github.io/hongkong/hohon-eatery/" target="_blank" rel="noopener"><span class="inner"><span class="chrome" aria-hidden="true"><i></i><i></i><i></i></span><img loading="lazy" src="shots/hongkong-hohon-eatery.jpg?v=d0fa60ba" alt="HoHon Eatery website by StudioMorphik"><span class="meta"><b>HoHon Eatery</b><span style="display:flex;align-items:center;gap:9px"><i>Hong Kong</i><span class="arr">↗</span></span></span></span></a></div></section>
 <section class="cityblock" id="melbourne"><h2 class="cityhead">MELBOURNE<span>5 websites</span></h2><div class="grid"><a class="card" href="https://wissamsader.github.io/melbourne/commune/" target="_blank" rel="noopener"><span class="inner"><span class="chrome" aria-hidden="true"><i></i><i></i><i></i></span><img loading="lazy" src="shots/melbourne-commune.jpg?v=5e680785" alt="Commune website by StudioMorphik"><span class="meta"><b>Commune</b><span style="display:flex;align-items:center;gap:9px"><i>Melbourne</i><span class="arr">↗</span></span></span></span></a><a class="card" href="https://wissamsader.github.io/melbourne/little-bridge/" target="_blank" rel="noopener"><span class="inner"><span class="chrome" aria-hidden="true"><i></i><i></i><i></i></span><img loading="lazy" src="shots/melbourne-little-bridge.jpg?v=fa6eb0d0" alt="Little Bridge Cafe website by StudioMorphik"><span class="meta"><b>Little Bridge Cafe</b><span style="display:flex;align-items:center;gap:9px"><i>Melbourne</i><span class="arr">↗</span></span></span></span></a><a class="card" href="https://wissamsader.github.io/melbourne/2t-cafe/" target="_blank" rel="noopener"><span class="inner"><span class="chrome" aria-hidden="true"><i></i><i></i><i></i></span><img loading="lazy" src="shots/melbourne-2t-cafe.jpg?v=36582faf" alt="2T Cafe website by StudioMorphik"><span class="meta"><b>2T Cafe</b><span style="display:flex;align-items:center;gap:9px"><i>Melbourne</i><span class="arr">↗</span></span></span></span></a><a class="card" href="https://wissamsader.github.io/melbourne/blonde/" target="_blank" rel="noopener"><span class="inner"><span class="chrome" aria-hidden="true"><i></i><i></i><i></i></span><img loading="lazy" src="shots/melbourne-blonde.jpg?v=ba8c2e18" alt="Blonde Food and Drink website by StudioMorphik"><span class="meta"><b>Blonde Food and Drink</b><span style="display:flex;align-items:center;gap:9px"><i>Melbourne</i><span class="arr">↗</span></span></span></span></a><a class="card" href="https://wissamsader.github.io/melbourne/heart-coffee/" target="_blank" rel="noopener"><span class="inner"><span class="chrome" aria-hidden="true"><i></i><i></i><i></i></span><img loading="lazy" src="shots/melbourne-heart-coffee.jpg?v=f39f8662" alt="Heart Coffee website by StudioMorphik"><span class="meta"><b>Heart Coffee</b><span style="display:flex;align-items:center;gap:9px"><i>Melbourne</i><span class="arr">↗</span></span></span></span></a></div></section>
 </div></section>
 
